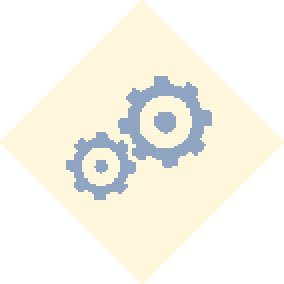
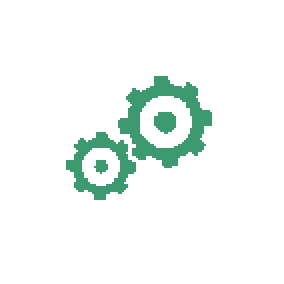
Changing images and colors.

diff --git a/App/functions.js b/App/functions.js
@@ -113,27 +113,13 @@ function drawMenu()
 			return a.y - b.y
 		})
 		
-		if (zombies[i].xDestination < zombies[i].x)
+		if (zombies[i].frame == 0)
 		{
-			if (zombies[i].frame == 0)
-			{
-				image(imgZombieLeft, zombies[i].x, zombies[i].y, 'anchor')
-			}
-			else
-			{
-				image(imgZombieLeft2, zombies[i].x, zombies[i].y, 'anchor')
-			}
+			image(imgZombieLeft, zombies[i].x, zombies[i].y, 'anchor')
 		}
-		else if (zombies[i].xDestination > zombies[i].x)
+		else
 		{
-			if (zombies[i].frame == 0)
-			{
-				image(imgZombieRight, zombies[i].x, zombies[i].y, 'anchor')
-			}
-			else
-			{
-				image(imgZombieRight2, zombies[i].x, zombies[i].y, 'anchor')
-			}
+			image(imgZombieLeft2, zombies[i].x, zombies[i].y, 'anchor')
 		}
 	}
 
@@ -218,71 +204,17 @@ function drawGame()
 		{
 			if (zombies[i].frame == 0)
 			{
-				gridImage(imgZombieRight, zombies[i].column, zombies[i].row, 'anchor')
+				gridImage(imgZombieLeft, zombies[i].column, zombies[i].row, 'anchor')
 			}
 			else
 			{
-				gridImage(imgZombieRight2, zombies[i].column, zombies[i].row, 'anchor')
+				gridImage(imgZombieLeft2, zombies[i].column, zombies[i].row, 'anchor')
 			}
 		}
 		else
 	    {
 	    	image(imgZombieDead, zombies[i].column, zombies[i].row, 'anchor') // Draw dead zombies
 	    }
-
-		/*
-	    if (zombies[i].health > 0) // Draw zombies facing in the right direction
-	    {	
-			if (centerX < gridCheck(zombies[i], 'x') && centerY < gridCheck(zombies[i], 'y'))
-			{
-				if (zombies[i].frame == 0)
-				{
-					gridImage(imgZombieUpLeft, zombies[i].column, zombies[i].row, 'anchor')
-				}
-				else
-				{
-					gridImage(imgZombieUpLeft2, zombies[i].column, zombies[i].row, 'anchor')
-				}
-			}
-			else if (centerX > gridCheck(zombies[i], 'x') && centerY < gridCheck(zombies[i], 'y'))
-			{
-				if (zombies[i].frame == 0)
-				{
-					gridImage(imgZombieUpRight, zombies[i].column, zombies[i].row, 'anchor')
-				}
-				else
-				{
-					gridImage(imgZombieUpRight2, zombies[i].column, zombies[i].row, 'anchor')
-				}
-			}
-			else if (centerX < gridCheck(zombies[i], 'x') && centerY > gridCheck(zombies[i], 'y'))
-			{
-				if (zombies[i].frame == 0)
-				{
-					gridImage(imgZombieDownLeft, zombies[i].column, zombies[i].row, 'anchor')
-				}
-				else
-				{
-					gridImage(imgZombieDownLeft2, zombies[i].column, zombies[i].row, 'anchor')
-				}
-			}
-			else if (centerX > gridCheck(zombies[i], 'x') && centerY > gridCheck(zombies[i], 'y'))
-			{
-				if (zombies[i].frame == 0)
-				{
-					gridImage(imgZombieDownRight, zombies[i].column, zombies[i].row, 'anchor')
-				}
-				else
-				{
-					gridImage(imgZombieDownRight2, zombies[i].column, zombies[i].row, 'anchor')
-				}
-			}
-	    }
-	    else
-	    {
-	    	image(imgDeadZombie, zombies[i].column, zombies[i].row, 'anchor') // Draw dead zombies
-	    }
-	    */
 	}
 
 	ctx.restore()

diff --git a/App/index.js b/App/index.js
@@ -16,7 +16,7 @@ var centerY = canvas.height / 2
 var fps = 60
 var debug = false // Can be toggled by tapping the screen in game mode
 
-var currentScreen = 'game'
+var currentScreen = 'menu'
 
 var grid = new Array() // Keeps track of grid pixel and coordinate positions for use in other functions
 var gridWidth = 21 // Make sure the gridsize is always an odd number so there's a tile in the center to start the player in
@@ -81,11 +81,11 @@ var extraAmmo = random(0, 2)
 var shotDamage = 3 // How much damage a bullet deals (change this later to be more dynamic)
 
 // Color scheme
-var white = '#fff8e3'
-var green = '#cccc9f'
-var black = '#33322d'
-var blue = '#9fb4cc'
-var red = '#db4105'
+var white = '#FFFFFF'
+var green = '#3D9970'
+var black = '#111111'
+var blue = '#001F3F'
+var red = '#FF4136'
 
 // UI values
 var canvasColor = black

diff --git a/App/images.js b/App/images.js
@@ -26,7 +26,3 @@ var imgZombieLeft = new Image(68, 68)
 	imgZombieLeft.src = 'images/zombie-left.png'
 var imgZombieLeft2 = new Image(68, 68)
 	imgZombieLeft2.src = 'images/zombie-left-2.png'
-var imgZombieRight = new Image(68, 68)
-	imgZombieRight.src = 'images/zombie-right.png'
-var imgZombieRight2 = new Image(68, 68)
-	imgZombieRight2.src = 'images/zombie-right-2.png'
